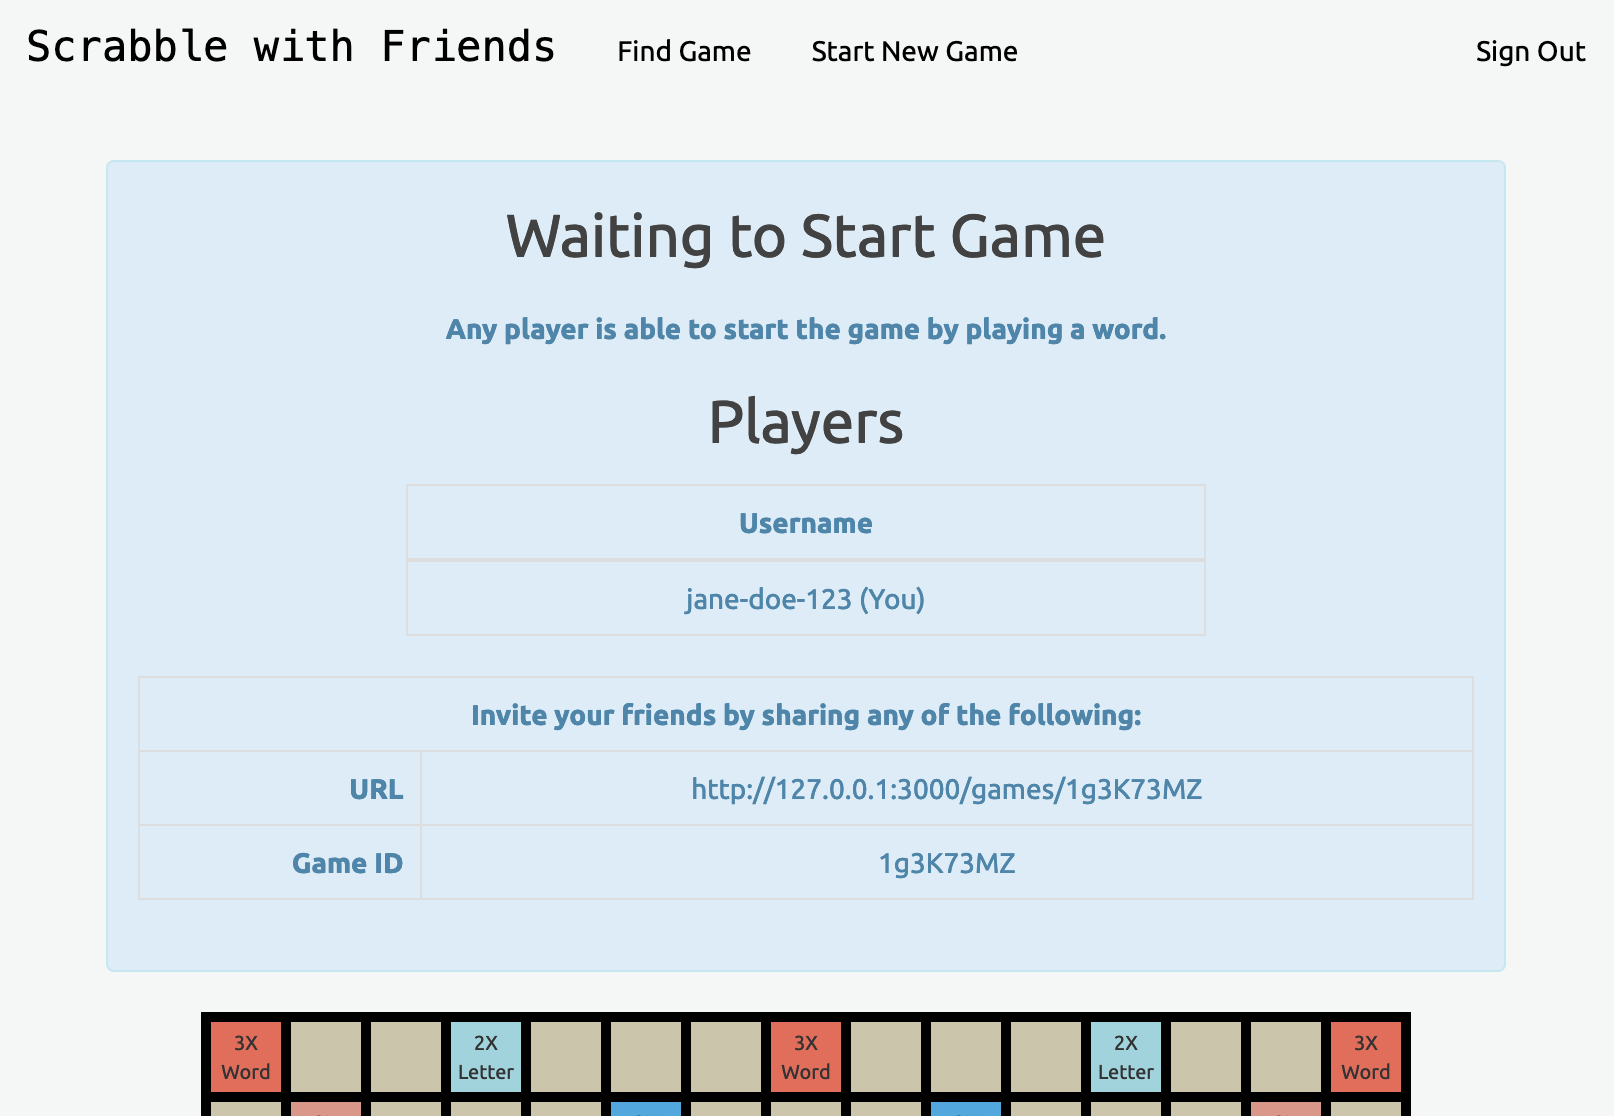
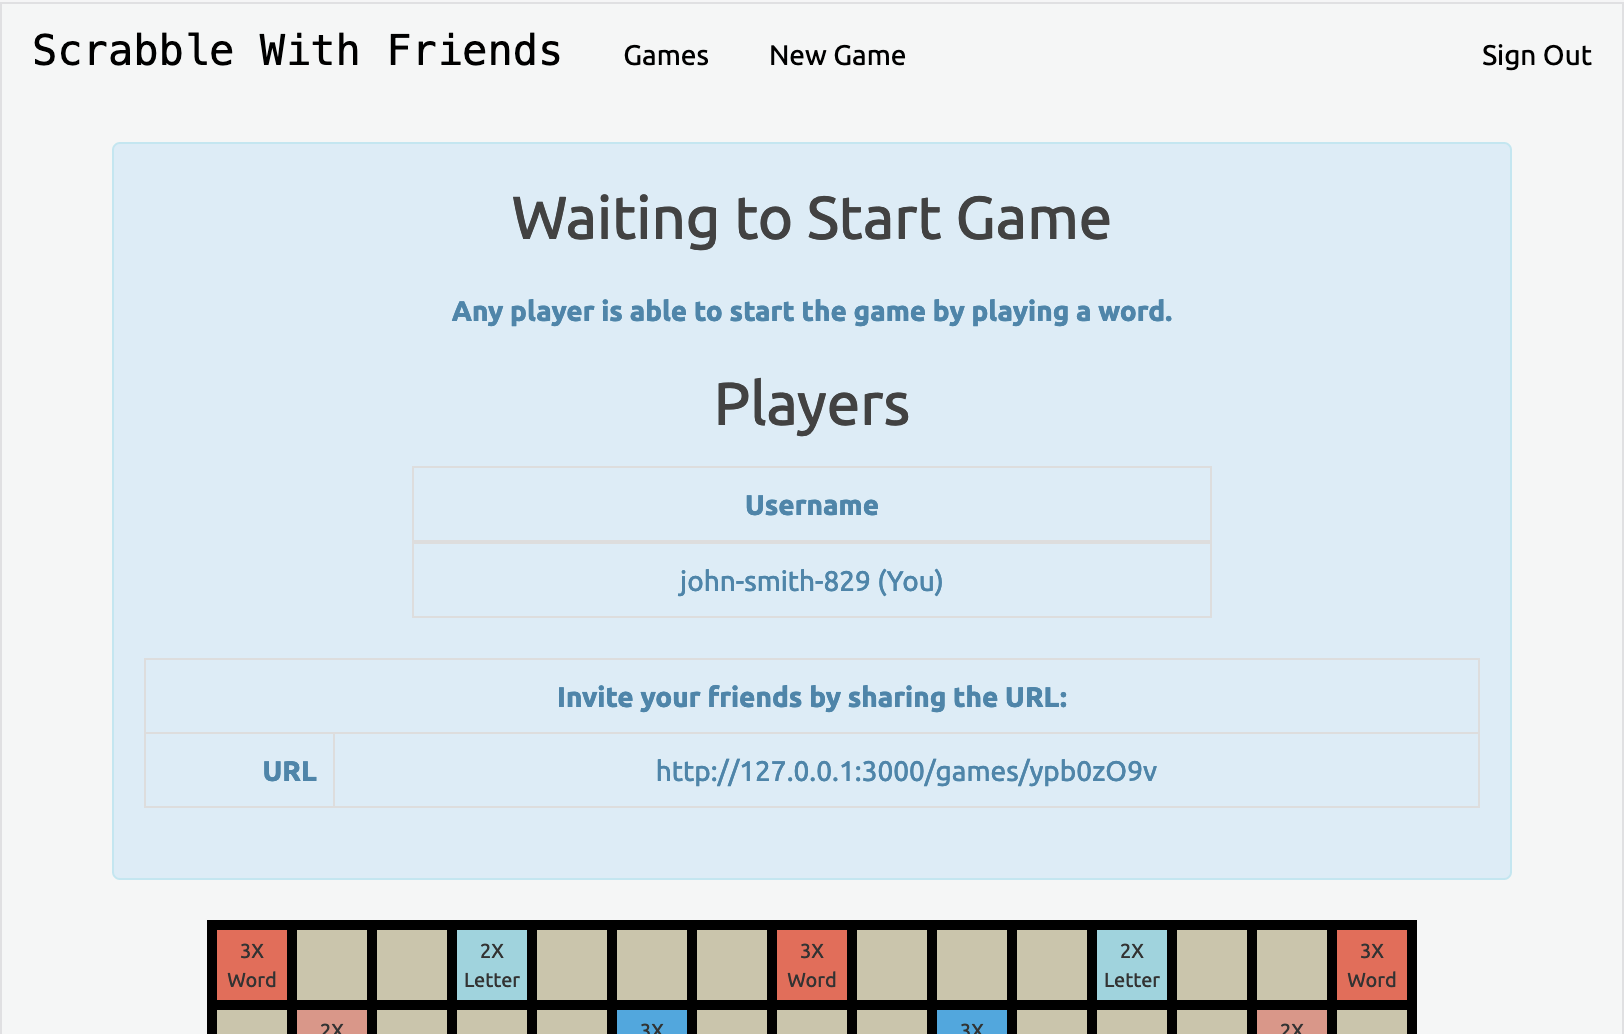
Remove find game, Improve games list, Extract start new game to separate page

diff --git a/app/assets/stylesheets/scrabble_with_friends/application.css b/app/assets/stylesheets/scrabble_with_friends/application.css
@@ -9,6 +9,12 @@
   --body-bg-color: #F5F6F6;
 }
 
+body{
+  background-color: var(--body-bg-color);
+  padding-bottom: 20px;
+  padding-top: calc(var(--navbar-height) + 20px);
+}
+
 a{
   color: inherit;
 }
@@ -21,6 +27,7 @@ a:hover, a:focus{
 .navbar{
   min-height: var(--navbar-height);
   background-color: var(--body-bg-color);
+  margin-bottom: 0;
 }
 
 .navbar a{
@@ -52,12 +59,6 @@ a:hover, a:focus{
 h1, h2, h3, h4, h5{
   margin-top: 0px;
   color: #424242;
-}
-
-body{
-  background-color: var(--body-bg-color);
-  padding-bottom: 20px;
-  padding-top: 80px;
 }
 
 label{

diff --git a/spec/request/games_controller_spec.rb b/spec/request/games_controller_spec.rb
@@ -14,12 +14,13 @@ RSpec.describe ScrabbleWithFriends::GamesController, type: :request do
   end
 
   def create_game
-    @game = ScrabbleWithFriends::Game.create!(password: :foo_password)
-    @game.players.create!(username: session[:scrabble_with_friends_username], tiles: [])
+    @game = ScrabbleWithFriends::Game.create!(name: :foo_name)
+    @game.players.create!(username: session[:scrabble_with_friends_username])
+    @game
   end
 
   def create_player
-    @game.players.create!(username: SecureRandom.hex(6), tiles: [])
+    @game.players.create!(username: SecureRandom.hex(6))
   end
 
   def create_turn
@@ -44,34 +45,60 @@ RSpec.describe ScrabbleWithFriends::GamesController, type: :request do
     it "renders" do
       get scrabble_with_friends.games_path
       expect(response.status).to eq(200)
-      expect(response.body).to include("Find Game")
+    end
+
+    it "renders game list" do
+      create_game
+
+      get scrabble_with_friends.games_path
+      expect(response.status).to eq(200)
+      expect(response.body).to include("Your Games")
+      expect(response.body).not_to include(scrabble_with_friends.game_path(@game))
+
+      get scrabble_with_friends.game_path(@game)
+      expect(response.status).to eq(200)
+
+      get scrabble_with_friends.games_path
+      expect(response.status).to eq(200)
+      expect(response.body).to include("Your Games")
+      expect(response.body).to include(scrabble_with_friends.game_path(@game))
+    end
+  end
+
+  context "new" do
+    it "renders" do
+      get scrabble_with_friends.new_game_path
+      expect(response.status).to eq(200)
     end
   end
 
   context "create" do
-    it "creates a new game without password" do
+    it "creates a new game without name" do
       post scrabble_with_friends.games_path, params: {}
       expect(response.status).to eq(302)
       @game = assigns(:game)
       expect(response).to redirect_to(scrabble_with_friends.game_path(@game))
     end
 
-    it "creates a new game with password" do
-      post scrabble_with_friends.games_path, params: {password: "some-password"}
+    it "creates a new game with name" do
+      post scrabble_with_friends.games_path, params: {name: "some-name"}
       expect(response.status).to eq(302)
       @game = assigns(:game)
       expect(response).to redirect_to(scrabble_with_friends.game_path(@game))
-      expect(@game.password).to eq("some-password")
+      expect(@game.name).to eq("some-name")
     end
 
     it "finds existing game and renders errors" do
-      create_game
-      create_turn
-      @game.players.destroy_all
-      post scrabble_with_friends.games_path, params: {password: @game.password}
+      name = "foo"
+
+      post scrabble_with_friends.games_path, params: {name: name}
+      expect(response.status).to eq(302)
+      expect(response).to redirect_to(scrabble_with_friends.game_path(assigns(:game)))
+
+      post scrabble_with_friends.games_path, params: {name: name}
       expect(response.status).to eq(302)
       expect(response).to redirect_to(scrabble_with_friends.games_path)
-      expect(flash[:alert]).to include("Game not saved. Please choose a different password.")
+      expect(flash[:alert]).to include("Game not saved. Please choose a different name.")
     end
   end
 
@@ -80,10 +107,19 @@ RSpec.describe ScrabbleWithFriends::GamesController, type: :request do
       create_game
     end
 
-    it "renders" do
+    it "renders waiting for game" do
       get scrabble_with_friends.game_path(@game)
       expect(response.status).to eq(200)
       expect(response.body).to include("board-square")
+      expect(response.body).to include("Waiting to Start Game")
+    end
+
+    it "renders game started" do
+      create_turn
+      get scrabble_with_friends.game_path(@game)
+      expect(response.status).to eq(200)
+      expect(response.body).to include("board-square")
+      expect(response.body).to include("Current Player")
     end
   end
 
@@ -304,6 +340,18 @@ RSpec.describe ScrabbleWithFriends::GamesController, type: :request do
       expect(response.status).to eq(302)
       expect(response).to redirect_to(scrabble_with_friends.game_path(@game))
       expect(@game.turns.reload.size).to eq(0)
+    end
+  end
+
+  context "destroy" do
+    before do
+      create_game
+    end
+
+    it "deletes the game" do
+      delete scrabble_with_friends.game_path(@game)
+      expect(response).to redirect_to(scrabble_with_friends.games_path)
+      expect(ScrabbleWithFriends::Game.find_by(id: @game.id)).to eq(nil)
     end
   end
 end

diff --git a/app/controllers/scrabble_with_friends/games_controller.rb b/app/controllers/scrabble_with_friends/games_controller.rb
@@ -18,39 +18,19 @@ module ScrabbleWithFriends
 
     def index
       _fetch_your_games
-
-      if params[:game_id].present?
-        params[:game_id] = params[:game_id].strip
-
-        if params[:game_id].start_with?("http")
-          params[:game_id] = params[:game_id].split("/").last
-        end
-
-        game = ScrabbleWithFriends::Game.find_by(
-          "public_id = :public_id OR password = :game_password",
-          public_id: params[:game_id],
-          game_password: params[:game_id].downcase,
-        )
-
-        if game
-          redirect_to(action: :show, id: game.public_id)
-        else
-          flash.now[:alert] = "Game not found."
-        end
-      end
     end
 
     def new
     end
 
     def create
-      ScrabbleWithFriends::Game.where("#{ScrabbleWithFriends::Game.table_name}.updated_at <= ?", 60.days.ago).each do |inactive_game|
-        inactive_game.destroy!
+      (ScrabbleWithFriends::Game.inactive_games.to_a + ScrabbleWithFriends::Game.orphaned_games.to_a).each do |game|
+        game.destroy!
       end
 
       game_saved = false
 
-      @game = ScrabbleWithFriends::Game.new(password: params[:password])
+      @game = ScrabbleWithFriends::Game.new(name: params[:name])
 
       game_saved = false
 
@@ -64,8 +44,11 @@ module ScrabbleWithFriends
 
       if game_saved
         redirect_to(action: :show, id: @game.to_param)
+      elsif @game.errors[:name].present?
+        flash.alert = "Game not saved. Please choose a different name."
+        redirect_to(action: :index)
       else
-        flash.alert = "Game not saved. Please choose a different password."
+        flash.alert = "Game not saved."
         redirect_to(action: :index)
       end
     end
@@ -228,7 +211,7 @@ module ScrabbleWithFriends
 
       @game.destroy!
 
-      redirect_to(action: :show)
+      redirect_to(action: :index)
     end
 
     private
@@ -585,9 +568,9 @@ module ScrabbleWithFriends
       return if game_ids.blank?
 
       @your_games = ScrabbleWithFriends::Game
-        .includes(:players, :turns)
+        .for_user(current_username)
         .where(public_id: game_ids)
-        .where(players: {username: current_username})
+        .includes(:players, :turns)
         .order(updated_at: :desc)
 
       session[YOUR_GAMES_SESSION_KEY] = @your_games.map(&:public_id)

diff --git a/app/models/scrabble_with_friends/game.rb b/app/models/scrabble_with_friends/game.rb
@@ -4,30 +4,35 @@ module ScrabbleWithFriends
     has_many :turns, class_name: "ScrabbleWithFriends::Turn", dependent: :destroy
 
     validate do
-      if new_record? && password.present? && self.class.find_by("public_id = :password OR password = :password", password: password)
-        self.errors.add(:password, "password already taken, please use a different one")
+      next if persisted? || name.nil?
+
+      existing_game = self.class
+        .for_user(Current.username)
+        .find_by(
+          "lower(name) = :name",
+          name: name.downcase,
+        )
+
+      if existing_game
+        self.errors.add(:name, "already taken")
       end
     end
     validates :public_id, uniqueness: {case_sensitive: true, allow_blank: true}
 
-    def password=(val)
-      self[:password] = val&.downcase
-    end
+    scope :inactive_games, -> { where("#{ScrabbleWithFriends::Game.table_name}.updated_at <= ?", 60.days.ago) }
+    scope :orphaned_games, -> { left_joins(:players).where(players: {id: nil}) }
+    scope :for_user, ->(username) { joins(:players).where(players: {username: Current.username}) }
 
-    before_create do
-      if password.present?
-        self.password = password.strip
+    before_validation do
+      if name.present?
+        self.name = name.strip
       else
-        self.password = nil
+        self.name = nil
       end
     end
 
     after_create do
       self.update_columns(public_id: ApplicationRecord.generate_public_id(id))
-    end
-
-    def name
-      self.password
     end
 
     def to_param

diff --git a/app/controllers/scrabble_with_friends/application_controller.rb b/app/controllers/scrabble_with_friends/application_controller.rb
@@ -5,6 +5,10 @@ module ScrabbleWithFriends
     helper_method :signed_in?
     helper_method :current_username
 
+    before_action do
+      Current.username = session[:scrabble_with_friends_username].presence
+    end
+
     def robots
       str = <<~STR
         User-agent: *
@@ -25,11 +29,11 @@ module ScrabbleWithFriends
     private
 
     def signed_in?
-      current_username.present?
+      Current.username.present?
     end
 
     def current_username
-      session[:scrabble_with_friends_username].presence
+      Current.username
     end
 
   end

diff --git a/spec/request/sessions_controller_spec.rb b/spec/request/sessions_controller_spec.rb
@@ -27,7 +27,7 @@ RSpec.describe ScrabbleWithFriends::SessionsController, type: :request do
     end
 
     it "redirects to requested game" do
-      @game = ScrabbleWithFriends::Game.create!(password: "foo")
+      @game = ScrabbleWithFriends::Game.create!(name: "foo")
       get scrabble_with_friends.game_path("foo")
       assert_equal(response.status, 302)
       assert_redirected_to scrabble_with_friends.sign_in_path

diff --git a/db/migrate/20240121001344_add_scrabble_with_friends_tables.rb b/db/migrate/20240121001344_add_scrabble_with_friends_tables.rb
@@ -2,7 +2,7 @@ class AddScrabbleWithFriendsTables < ActiveRecord::Migration[6.0]
   def change
     create_table :scrabble_with_friends_games do |t|
       t.string :public_id, index: true, unique: true
-      t.string :password
+      t.string :name
       t.timestamps
     end
 

diff --git a/app/models/scrabble_with_friends/current.rb b/app/models/scrabble_with_friends/current.rb
@@ -1,0 +1,5 @@
+module ScrabbleWithFriends
+  class Current < ActiveSupport::CurrentAttributes
+    attribute :username
+  end
+end

diff --git a/README.md b/README.md
@@ -15,6 +15,8 @@ Features:
 
 <img src="/screenshot_sign_in.png" alt="Screenshot: Sign In" width="500px" />
 
+<img src="/screenshot_start_new_game.png" alt="Screenshot: Start New Game" width="500px" />
+
 <img src="/screenshot_games_index.png" alt="Screenshot: Find or create game" width="500px" />
 
 <img src="/screenshot_waiting_to_start_game.png" alt="Screenshot: Waiting to Start Game" width="500px" />
